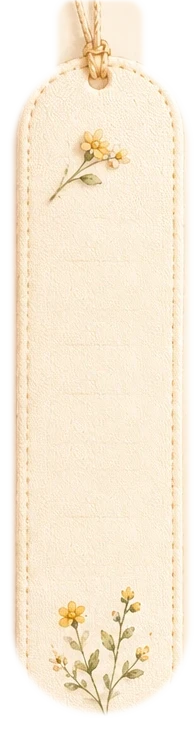
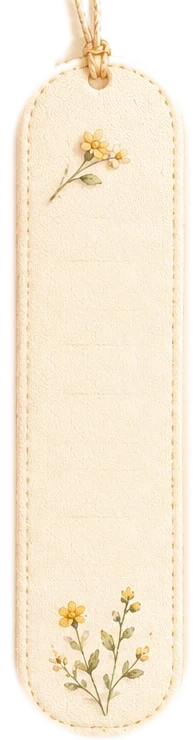
style: golden honey flow with pollen balls; complete bookmark tag silhouette
- The section threshold is now painted as actual honey: a golden ribbon
  undulating along the seam (gloss crest, drip line below), with little
  textured pollen balls letting go where the drops used to be and pollen
  powder dusting the wall beneath.
- Bookmark artwork recut: the pill mask now reaches the tag's true
  bottom (y=736) so the full rounded hem and its stitches show, and the
  twine is chroma-keyed instead of rect-masked — the wall streak under
  the cord is gone, the page background shows around the strands.

Claude-Session: https://claude.ai/code/session_01ArTvvFgJh6FUQF8uSeVyGo

diff --git a/src/components/HoneyDivider.tsx b/src/components/HoneyDivider.tsx
@@ -1,8 +1,9 @@
 /**
- * The threshold between two rooms: the cream of the room above stretches
- * over the seam like slowly-flowing honey, a few golden drops letting go,
- * pollen drifting beneath. Replaces the old scalloped hem. Sits at the
- * very top of the room being entered, painting over its wall wash.
+ * The threshold between two rooms: a golden flow of honey lies along the
+ * seam — wavy above, dripping below — while little pollen balls let go
+ * and pollen powder dusts the wall beneath. Sits at the very top of the
+ * room being entered, painting over its wall wash; the cream cap above
+ * the flow keeps it seamless with the room left behind.
  */
 export function HoneyDivider({ className = "" }: { className?: string }) {
   return (
@@ -13,16 +14,32 @@ export function HoneyDivider({ className = "" }: { className?: string }) {
       className={`block h-[58px] w-full ${className}`}
     >
       <defs>
-        <linearGradient id="honey-drop" x1="0" y1="0" x2="0" y2="1">
-          <stop offset="0" stopColor="#f4d488" />
-          <stop offset="1" stopColor="#dfa93f" />
+        <linearGradient id="honey-flow" x1="0" y1="0" x2="0" y2="1">
+          <stop offset="0" stopColor="#f4d88e" />
+          <stop offset="0.55" stopColor="#e9bd5c" />
+          <stop offset="1" stopColor="#dda23c" />
         </linearGradient>
+        <radialGradient id="pollen-ball" cx="0.35" cy="0.3" r="0.85">
+          <stop offset="0" stopColor="#f8e1a0" />
+          <stop offset="0.6" stopColor="#e9bd5c" />
+          <stop offset="1" stopColor="#d29a34" />
+        </radialGradient>
       </defs>
 
-      {/* the cream of the room above, ending in a slow drip line */}
+      {/* cream cap: the room above, down to the honey's wavy upper edge */}
       <path
         fill="#f8efdd"
-        d="M0,0 H1440 V12
+        d="M0,0 H1440 V6 C1410,7 1380,4 1300,6 C1220,8 1160,4 1080,7
+        C1000,9 940,4 860,7 C780,8 720,3 640,6 C560,8 500,4 420,7
+        C340,9 280,4 200,7 C120,9 60,3 0,6 Z"
+      />
+
+      {/* the honey flow: wavy above, slow drips below */}
+      <path
+        fill="url(#honey-flow)"
+        d="M0,6 C60,3 120,9 200,7 C280,4 340,9 420,7 C500,4 560,8 640,6
+        C720,3 780,8 860,7 C940,4 1000,9 1080,7 C1160,4 1220,8 1300,6
+        C1380,4 1410,7 1440,6 V12
         C1420,12 1414,20 1400,20 C1386,20 1384,11 1352,11
         C1318,11 1316,30 1296,30 C1276,30 1274,12 1240,12
         C1206,12 1204,22 1184,22 C1164,22 1162,10 1128,10
@@ -37,40 +54,67 @@ export function HoneyDivider({ className = "" }: { className?: string }) {
         C192,10 190,30 170,30 C150,30 148,11 112,11
         C78,11 76,17 56,17 C36,17 34,10 0,12 Z"
       />
+      {/* gloss along the crest of the flow */}
+      <path
+        fill="none"
+        stroke="#fbeabc"
+        strokeWidth="2.2"
+        strokeLinecap="round"
+        opacity="0.55"
+        d="M30,9 C120,12 220,10 330,12 C460,14 560,10 700,12 C840,14 960,10 1090,12 C1220,14 1330,10 1410,11"
+      />
 
-      {/* golden drops letting go beneath the deepest drips */}
+      {/* pollen balls letting go beneath the deepest drips */}
       <g>
-        <path
-          fill="url(#honey-drop)"
-          d="M1072 44 C1068 49 1066.5 52 1066.5 54.5 A5.5 5.5 0 0 0 1077.5 54.5 C1077.5 52 1076 49 1072 44 Z"
-        />
-        <ellipse cx="1070" cy="53.5" rx="1.4" ry="2.2" fill="#fffdf4" opacity="0.5" />
-        <path
-          fill="url(#honey-drop)"
-          d="M620 40 C616 45 614.5 48 614.5 50.5 A5.5 5.5 0 0 0 625.5 50.5 C625.5 48 624 45 620 40 Z"
-        />
-        <ellipse cx="618" cy="49.5" rx="1.4" ry="2.2" fill="#fffdf4" opacity="0.5" />
-        <path
-          fill="url(#honey-drop)"
-          d="M170 36 C166.8 40 165.5 42.6 165.5 44.8 A4.5 4.5 0 0 0 174.5 44.8 C174.5 42.6 173.2 40 170 36 Z"
-        />
-        <ellipse cx="168.4" cy="43.8" rx="1.1" ry="1.8" fill="#fffdf4" opacity="0.5" />
+        <circle cx="170" cy="41" r="4.6" fill="url(#pollen-ball)" />
+        <circle cx="168.4" cy="39.2" r="1.2" fill="#fdf2cf" opacity="0.8" />
+        <circle cx="171.8" cy="42.6" r="0.8" fill="#b9861f" opacity="0.7" />
+        <circle cx="168.2" cy="43" r="0.7" fill="#b9861f" opacity="0.6" />
+
+        <circle cx="620" cy="45" r="5.6" fill="url(#pollen-ball)" />
+        <circle cx="618" cy="42.8" r="1.4" fill="#fdf2cf" opacity="0.8" />
+        <circle cx="622.4" cy="46.6" r="0.9" fill="#b9861f" opacity="0.7" />
+        <circle cx="617.6" cy="47.2" r="0.8" fill="#b9861f" opacity="0.6" />
+        <circle cx="621.6" cy="43.4" r="0.7" fill="#b9861f" opacity="0.5" />
+        <circle cx="636" cy="52" r="2.2" fill="url(#pollen-ball)" />
+
+        <circle cx="1072" cy="49" r="6.2" fill="url(#pollen-ball)" />
+        <circle cx="1069.6" cy="46.4" r="1.5" fill="#fdf2cf" opacity="0.8" />
+        <circle cx="1074.8" cy="50.8" r="1" fill="#b9861f" opacity="0.7" />
+        <circle cx="1069.4" cy="51.6" r="0.8" fill="#b9861f" opacity="0.6" />
+        <circle cx="1074" cy="47" r="0.7" fill="#b9861f" opacity="0.5" />
+        <circle cx="1056" cy="55" r="2" fill="url(#pollen-ball)" />
       </g>
 
-      {/* pollen drifting under the seam */}
+      {/* pollen powder dusting the wall beneath the flow */}
       <g fill="#d9a63c">
-        <circle cx="90" cy="26" r="2" opacity="0.35" />
-        <circle cx="255" cy="38" r="2.5" opacity="0.3" />
-        <circle cx="420" cy="34" r="2" opacity="0.4" />
-        <circle cx="555" cy="30" r="1.8" opacity="0.35" />
-        <circle cx="700" cy="42" r="2.6" opacity="0.28" />
-        <circle cx="760" cy="24" r="1.6" opacity="0.4" />
-        <circle cx="930" cy="28" r="2" opacity="0.33" />
-        <circle cx="1010" cy="44" r="2.2" opacity="0.3" />
-        <circle cx="1160" cy="30" r="2.4" opacity="0.35" />
-        <circle cx="1250" cy="40" r="1.8" opacity="0.3" />
-        <circle cx="1330" cy="46" r="1.5" opacity="0.28" />
-        <circle cx="1390" cy="28" r="2.2" opacity="0.35" />
+        <circle cx="52" cy="24" r="1.2" opacity="0.35" />
+        <circle cx="96" cy="32" r="1.8" opacity="0.3" />
+        <circle cx="150" cy="52" r="1" opacity="0.3" />
+        <circle cx="188" cy="50" r="1.4" opacity="0.35" />
+        <circle cx="238" cy="27" r="1.1" opacity="0.4" />
+        <circle cx="300" cy="36" r="1.9" opacity="0.28" />
+        <circle cx="352" cy="24" r="1" opacity="0.4" />
+        <circle cx="405" cy="42" r="1.5" opacity="0.3" />
+        <circle cx="470" cy="28" r="1.2" opacity="0.35" />
+        <circle cx="530" cy="38" r="1" opacity="0.3" />
+        <circle cx="586" cy="30" r="1.6" opacity="0.32" />
+        <circle cx="604" cy="54" r="1.1" opacity="0.35" />
+        <circle cx="662" cy="26" r="1.3" opacity="0.35" />
+        <circle cx="718" cy="40" r="1.8" opacity="0.26" />
+        <circle cx="774" cy="30" r="1" opacity="0.4" />
+        <circle cx="836" cy="44" r="1.4" opacity="0.3" />
+        <circle cx="898" cy="26" r="1.2" opacity="0.38" />
+        <circle cx="948" cy="38" r="1" opacity="0.3" />
+        <circle cx="1002" cy="30" r="1.7" opacity="0.3" />
+        <circle cx="1046" cy="26" r="1" opacity="0.35" />
+        <circle cx="1096" cy="58" r="1.2" opacity="0.32" />
+        <circle cx="1148" cy="34" r="1.5" opacity="0.32" />
+        <circle cx="1204" cy="26" r="1.1" opacity="0.38" />
+        <circle cx="1262" cy="42" r="1.6" opacity="0.28" />
+        <circle cx="1318" cy="30" r="1" opacity="0.36" />
+        <circle cx="1372" cy="44" r="1.3" opacity="0.3" />
+        <circle cx="1414" cy="26" r="1.1" opacity="0.35" />
       </g>
     </svg>
   );